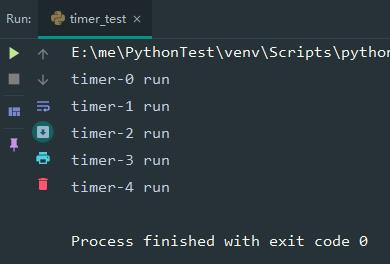
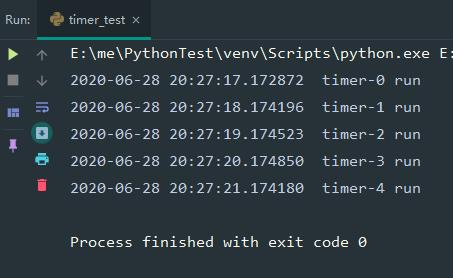
更新

diff --git a/学习文档/Python/threading模块.md b/学习文档/Python/threading模块.md
@@ -525,11 +525,12 @@ if __name__ == '__main__':
 
 ```python
 # -*- coding:utf-8 -*-
+import datetime
 import threading
 
 
 def run(t_name):
-    print(t_name + " run")
+    print(datetime.datetime.now(), " " + t_name + " run")
 
 
 def timer_demo():
